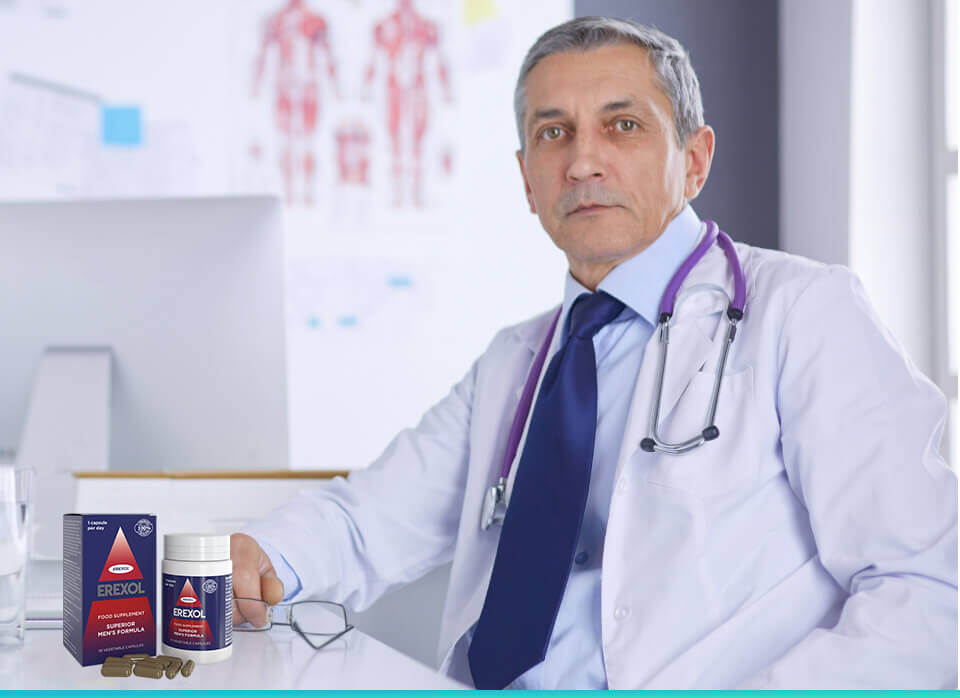
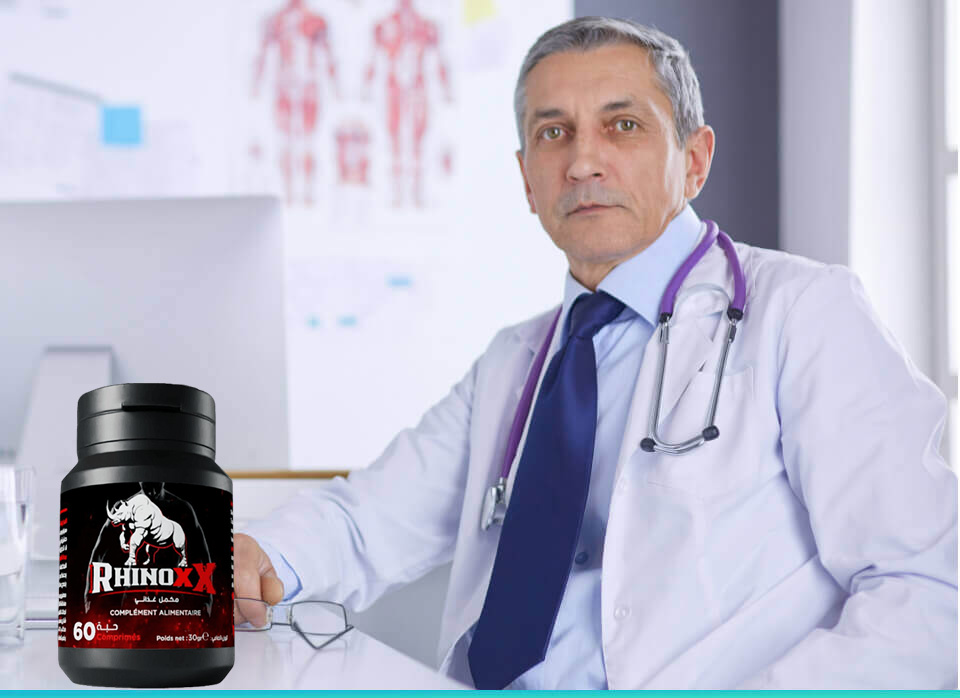
edited css

Changed region(s): [[0.0625, 0.5415, 0.25, 0.9928]]

diff --git a/index.html b/index.html
@@ -31,14 +31,15 @@
                 <img src="img/product.png" alt="" class="product">
             </div>
             <div class="price-box">
-                <div class="new-price"> <span class="new_price_val">39</span> <span class="new_price_cur">DZD</span></div>
-                <div class="old-price"> <span class="old_price_val">78</span> <span class="old_price_cur">DZD</span></div>
-                <P style="text-align: center;">
-                    Lorsque vous achetez un cours RHINOXX
-                </P>
+                <div class="new-price"> <span class="new_price_val">5990</span> <span class="new_price_cur">DZD</span></div>
+                <div class="old-price"> <span class="old_price_val">19000</span> <span class="old_price_cur">DZD</span></div>
+                
                 <img src="img/b1.png" class="decor">
 
             </div>
+            <P style="text-align: center;">
+                Lorsque vous achetez un cours RHINOXX
+            </P>
             <div class="bullets">
                 <div class="bullet-item">
                     <span> remède naturel</span>
@@ -99,7 +100,7 @@
                     <div class="problems-item">
                         <img src="img/p1.png" alt="">
                         <div class="right">
-                            <span> des répondants, après 1 cycle de RHINOXX</span>
+                            <span> Prenez deux comprimés le soir avant les repas.</span>
                             <p class="result">
                                 <span>Résultat:</span><br> Les problèmes d'alimentation ont complètement disparu
                             </p>
@@ -108,7 +109,7 @@
                     <div class="problems-item">
                         <img src="img/p2.png" alt="">
                         <div class="right">
-                            <span> des répondants, après 1 cycle de RHINOXX</span>
+                            <span> Prenez deux comprimés le soir avant les repas.</span>
                             <p class="result">
                                 <span> Résultat:</span><br> La durée des rapports sexuels augmentée à 1 heure et 40 minutes
                             </p>
@@ -117,7 +118,7 @@
                     <div class="problems-item">
                         <img src="img/p3.png" alt="">
                         <div class="right">
-                            <span> des répondants, après 1 cycle de RHINOXX</span>
+                            <span> Prenez deux comprimés le soir avant les repas.</span>
                             <p class="result">
                                 <span> Résultat:</span><br> Les sentiments sont devenus plus sensuels
                             </p>
@@ -185,28 +186,30 @@
             <div class="natural-list">
                 <div class="natural-item">
                     <img src="img/n1.png">
-                    <p> Extrait de fruit de palmier nain</p>
+                    <p> Gingembre   </p>
                 </div>
                 <div class="natural-item">
                     <img src="img/n2.png">
-                    <p> Extrait de maca péruvienne</p>
+                    <p> Maca</p>
                 </div>
                 <div class="natural-item">
                     <img src="img/n3.png">
-                    <p> Extrait de racine de ginseng</p>
+                    <p> Ginseng rouge</p>
                 </div>
             </div>
             <p class="other-text"><b>La formulation et les proportions des principes actifs de RHINOXX ont été sélectionnées
-                sur la base des études suivantes :</b> <br><br>Associations de Serenoa repens, radix ginseng, péruvien
+                sur la base des études suivantes :</b> <br>
+                <!-- <br>
+                Associations de Serenoa repens, radix ginseng, péruvien
                 litière. Sécurité et efficacité dans le traitement de l'impuissance. Etude prospective sur 320 patients.<br><br>
-                <b> Source:</b>Urologie. janvier-mars 2010 ; 77 (1) : 43-51.
+                <b> Source:</b>Urologie. janvier-mars 2010 ; 77 (1) : 43-51. -->
             </p>
             <hr>
-            <p class="other-text">Activité hormonale du ginseng.<br><br>
+            <!-- <p class="other-text">Activité hormonale du ginseng.<br><br>
                 <b> Source:</b> J Cancer Res Clin Oncol. 1994 ; 120 Supplément : S14-6.
-            </p>
+            </p> -->
             <hr>
-            <img src="img/scheme.png" class="scheme">
+            <!-- <img src="img/scheme.png" class="scheme"> -->
             <hr>
             <p class="other-text"> L'efficacité et la sécurité d'une combinaison d'extrait de fruit de palmier nain et de maca péruvienne
                 dysfonctionnement
@@ -235,7 +238,7 @@
         <section class="howuse">
             <h2 class="caption">Comment prendre RHINOXX pour une efficacité maximale</h2>
             <img src="img/use.png">
-            <p><b>1 capsule avant les repas une fois par jour</b></p>
+            <p><b>Prenez deux comprimés le soir avant les repas.</b></p>
             <p> Notre responsable vous aidera à choisir la durée idéale qui vous convient le mieux. La consultation est gratuite.</p>
             <a href="{url}" class="toform"> obtenez des conseils gratuits !</a>
             <img src="img/b4.png" class="b4">
@@ -245,7 +248,7 @@
             <div class="slider">
                 <div class="rev-item">
                     <img src="img/rev1.jpg">
-                    <div class="rev-name"> Mico, 62 ans</div>
+                    <div class="rev-name"> محمد , 62 ans</div>
                     <div class="rev-text"> Après 55 ans, seul le Viagra m'a aidé, alors qu'il m'a tué le cœur. je
                         Je pensais que pour mon âge, c'était déjà la norme et je ne m'attendais pas à ce que je puisse vivre une vie
                         sexe normal. RHINOXX est le seul à m'avoir aidé. Le médicament a complètement restauré mon érection.
@@ -254,7 +257,7 @@
                 </div>
                 <div class="rev-item">
                     <img src="img/rev2.jpg">
-                    <div class="rev-name">Claudio, 33 ans</div>
+                    <div class="rev-name">أيمن , 33 ans</div>
                     <div class="rev-text"> J'admire RHINOXX car il reconstruit le système masculin. A souffert pendant 5
                         années, le sexe ne me procurait pas de plaisir, je suis allé chez différents médecins à cause d'une érection faible. Ils m'ont traité
                         avec des pilules, des crèmes et des thérapies, le tout sans résultats. Après cela, j'ai suivi le cours RHINOXX. Sexe
@@ -262,7 +265,7 @@
                 </div>
                 <div class="rev-item">
                     <img src="img/rev3.jpg">
-                    <div class="rev-name"> Luis, 42 ans</div>
+                    <div class="rev-name"> حلمي , 42 ans</div>
                     <div class="rev-text"> L’année dernière, j’étais presque épuisé et le sexe a presque disparu de ma vie.
                         Les médecins ont prescrit des médicaments, mais ceux-ci n’ont aidé que temporairement. Un autre spécialiste m'a conseillé de
                         J'ai pris RHINOXX et ça m'a aidé ! Non seulement les problèmes d’érection ont disparu, mais le désir sexuel a également disparu.
@@ -271,12 +274,12 @@
                 </div>
                 <div class="rev-item">
                     <img src="img/rev4.jpg">
-                    <div class="rev-name"> Adrien, 47 ans</div>
+                    <div class="rev-name"> محمود, 47 ans</div>
                     <div class="rev-text"> J'ai connu mes premiers problèmes d'érection à l'âge de 40 ans. C'était une période difficile, j'ai divorcé de ma femme, le stress. Je pensais que tout cela n’était que temporaire, mais au fil des années, cela n’a fait qu’empirer. Au bout d’un moment, j’ai réalisé que le sexe avait presque disparu de ma vie. Une amie m'a recommandé ces gélules... Et après le cursus d'admission, j'ai commencé une VIE NORMALE ! Un homme doit avoir beaucoup de relations sexuelles, c'est notre force vitale.</div>
                 </div>
                 <div class="rev-item">
                     <img src="img/rev5.jpg">
-                    <div class="rev-name"> Max, 50 ans</div>
+                    <div class="rev-name"> عبد الله, 50 ans</div>
                     <div class="rev-text"> J'ai une jeune femme, elle a 30 ans. En fait, j'ai toujours pensé que c'était
                         bon en sexe. Mais il n’y a pas si longtemps, ma femme m’a fait comprendre qu’il fallait améliorer quelque chose.
                         C'est désagréable à entendre. Je suis allé chez le médecin, il m'a demandé de prescrire quelque chose pour une érection plus longue et
@@ -285,7 +288,7 @@
                 </div>
                 <div class="rev-item">
                     <img src="img/rev6.jpg">
-                    <div class="rev-name"> Marco, 45 ans</div>
+                    <div class="rev-name"> منتصر, 45 ans</div>
                     <div class="rev-text"> Grâce à ce médicament, j'ai réalisé que l'impuissance peut être guérie ! Je pensais
                         que je ne pourrais plus jamais vraiment me sentir comme un homme. Et je suis très heureux d'avoir trouvé le
                         RHINOXX. Toute ma vie s'est améliorée même si j'avais oublié d'avoir une érection aussi forte à 35 ans
@@ -354,9 +357,9 @@
                     <form action="" method="post" id="order_form" class="order_form">
 
                         <label for=""> Exemple : João Fernandes</label>
-                        <input type="" name="name" placeholder=" Seu nome" autocomplete="disable" required="" class="ym-record-keys">
-                        <label for=""> Exemple : +3511234467890</label>
-                        <input type="tel" name="phone" placeholder=" Seu número de telefone" autocomplete="disable" required="" class="ym-record-keys">
+                        <input type="" name="name" placeholder=" le nom" autocomplete="disable" required="" class="ym-record-keys">
+                        <label for=""> Exemple : +213*****</label>
+                        <input type="tel" name="phone" placeholder="numéro de téléphone" autocomplete="disable" required="" class="ym-record-keys">
                         <button type="submit" class="toform"> demander avec le cul</button>
                     <input type="hidden" name="task" value="process"> </form>
                 </div>
